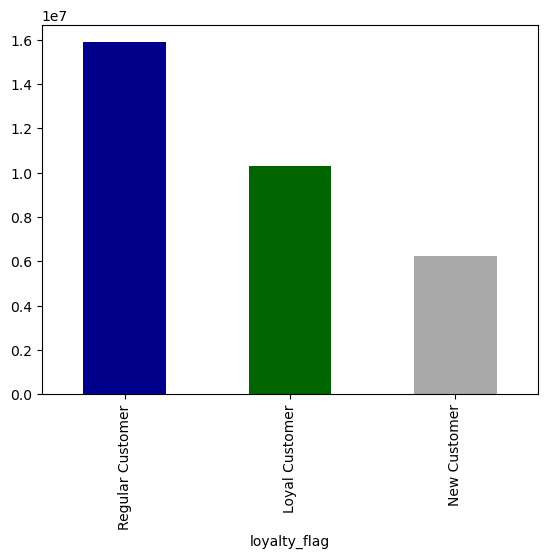
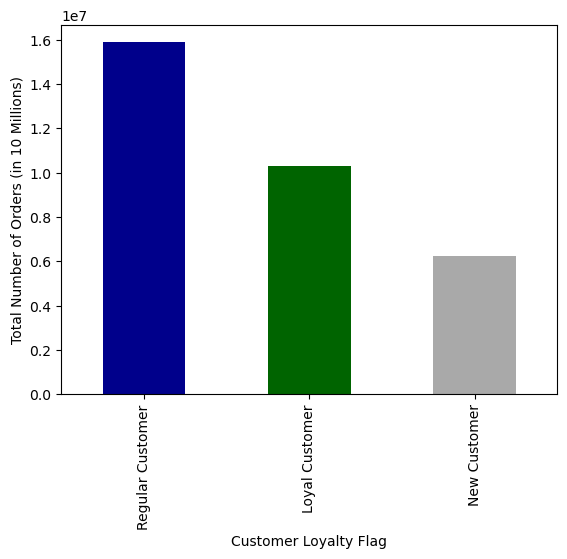
UPDATE README

diff --git a/README.md b/README.md
@@ -64,7 +64,7 @@ The following questions were utilized as a guide for the present project:
 First of all, I tried to identify which days of the week were the busiest, as well as the hours of the day, since this is one of the key questions to be answered in this project. 
 
 <p align="center">
-    <img alt="Light" src="https://github.com/robcabr/Instacart_Analysis_Sales/raw/main/Visualizations/Visualizations/Customer%20Profiling/bar_orders_dow.png" width="50%">
+    <img alt="Light" src="https://github.com/robcabr/Instacart_Analysis_Sales/blob/main/Visualizations/bar_orders_dow.png" width="50%">
 </p>
 
 The days are identified as follows: Saturday(0), Sunday(1), Monday(2), Tuesday(3), Wednesday(4), Thursday(5), and Friday(6).
@@ -75,8 +75,8 @@ After identifying the frequency of sales by day, it was important to identify th
 
 
 <p align="center">
-    <img alt="Light" src = "https://github.com/robcabr/Instacart_Analysis_Sales/blob/main/Visualizations/Visualizations/Customer%20Profiling/hist_order_by_hour.png" width="50%">
-    <img alt="Dark" src ="https://github.com/robcabr/Instacart_Analysis_Sales/blob/main/Visualizations/Visualizations/Customer%20Profiling/line_expenditure_by_hour.png" width="45%">
+    <img alt="Light" src = "https://github.com/robcabr/Instacart_Analysis_Sales/blob/main/Visualizations/hist_order_by_hour.png" width="50%">
+    <img alt="Dark" src ="https://github.com/robcabr/Instacart_Analysis_Sales/blob/main/Visualizations/line_expenditure_by_hour.png" width="50%">
 </p>
 
 According to the visualization line above, prices tend to be higher between 04 AM to 08 AM and 8 PM until 10 PM. On the other hand, from 12 am to 3 am, Instacart's clients tend to spend less. 
@@ -84,7 +84,7 @@ According to the visualization line above, prices tend to be higher between 04 A
 As for the histogram, it's clear that the busiest hours are around 10 AM to 3 PM, while the least busy hours are between 12 AM to 5 AM. 
 
 <p align="center">
-    <img alt="Light" src = "https://github.com/robcabr/Instacart_Analysis_Sales/blob/main/Visualizations/Visualizations/Customer%20Profiling/hist_price_frequency_bins70.png" width="50%">
+    <img alt="Light" src = "https://github.com/robcabr/Instacart_Analysis_Sales/blob/main/Visualizations/hist_price_frequency_bins70.png" width="50%">
 </p>
 
 Lastly, it was created a histogram based on price by frequency, where it was possible to identify that most of the products consumed are below $15 and after this price range the consumption drops drastically. 
@@ -97,9 +97,27 @@ After identifying the sales pattern, I started to create a profile for Instacart
 So, for that I tried to identify any correlation between age and other variables. 
 
 <p align="center">
-    <img alt="Light" src = "https://github.com/robcabr/Instacart_Analysis_Sales/blob/main/Visualizations/Visualizations/Customer%20Profiling/scatt_age_income.png" width="50%">
-    <img alt="Dark" src ="https://github.com/robcabr/Instacart_Analysis_Sales/blob/main/Visualizations/Visualizations/Customer%20Profiling/line_age_family.png" width="45%">
+    <img alt="Light" src = "https://github.com/robcabr/Instacart_Analysis_Sales/blob/main/Visualizations/scatt_age_income.png" width="50%">
+    <img alt="Dark" src ="https://github.com/robcabr/Instacart_Analysis_Sales/blob/main/Visualizations/line_age_family.png" width="50%">
 </p>
+
+In both cases the analysis was unsuccessful, since:
+1. It was not possible to observe any correlation between age and income, as could be observed a high flunctuation as the age increases.
+2. Also, it couldn't be observed any correlation between age and number of dependants, as there is no clear pattern between these variables.
+
+So, it was necessary to take another direction in the customer profiling.
+
+For this, I created a profile based on the frequencdy of order placed by a customer, divided in three categories:
+- Loyal Customer - Customer that has already made more than 40 orders.
+- Regular Customer - Customer that has made less than 40 order but more than 10. 
+- New Customer - Customer that has less than 10 orders.
+
+<p align="center">
+    <img alt="Dark" src ="https://github.com/robcabr/Instacart_Analysis_Sales/blob/main/Visualizations/bar_loyalty_brand.png" width="50%">
+</p>
+
+As can be observed above, there are a higher presence of Regular Customers, followed by Loyal Customers and then New Customers. 
+Although the requirements to be classified as a loyal customer require a high number of orders, the amount of regular customers far exceed the number of loyal, which could be an indicative that the majority of Instacart's income comes from customers who have a habit of place from 10 to 40 orders per year. 
 
 
 ## Conclusion and Recommendations
